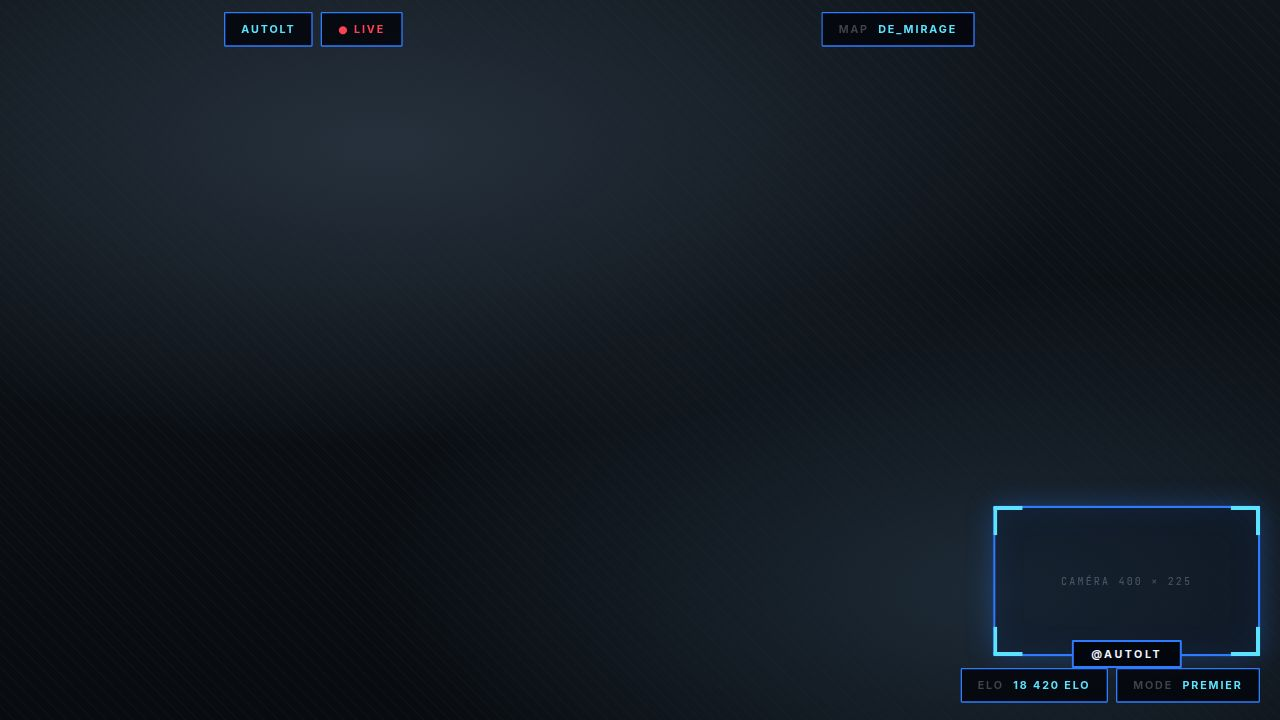
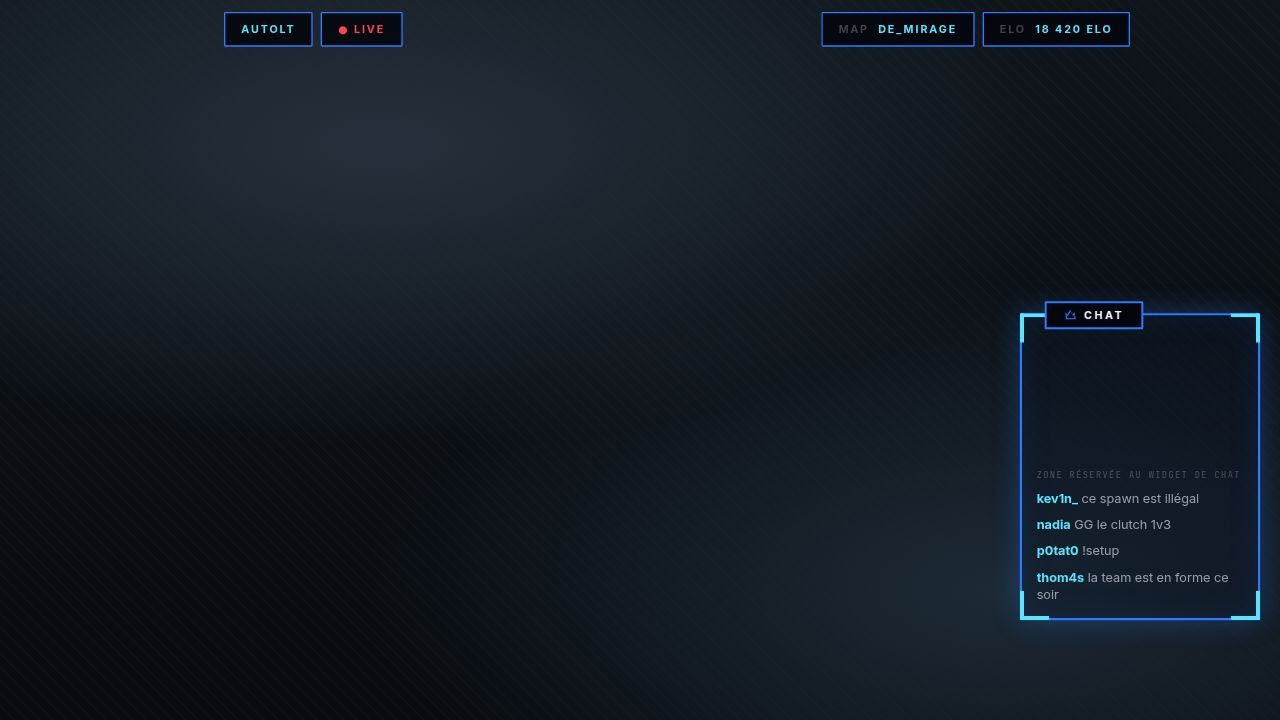
Scène de jeu : le chat prend la place de la caméra
En plein écran, l'encart de droite devient un cadre de chat 360 × 460
placé hors des zones du HUD de CS2 ; l'elo remonte dans le bandeau haut.
En variante encadrée, le rail droit est un seul grand cadre de chat
360 × 768 au lieu du duo caméra + chat.

La caméra reste disponible avec ?rail=cam (ou live.rail dans config.js),
qui rétablit l'ancienne disposition.

Claude-Session: https://claude.ai/code/session_01SUvkqKBtkJQJKFZ1BziB5T

Changed region(s): [[0.75, 0.3972, 1.0, 0.9778], [0.7812, 0.0306, 0.875, 0.0917]]

diff --git a/overlays/js/scenes.js b/overlays/js/scenes.js
@@ -41,6 +41,9 @@
     return g;
   }
 
+  /* 'chat' (défaut) ou 'cam' : ce qu'on met dans l'encart de la scène de jeu */
+  function rail() { return BB.q('rail', CFG.live.rail || 'chat'); }
+
   function liveFull(ctx) {
     var c = CFG.live, root = el('div', 'live-full');
     var tl = el('div', 'lf-top-l anim');
@@ -49,12 +52,20 @@
     var tr = el('div', 'lf-top-r anim');
     add(tr, BB.gchip('map', c.map));
 
-    var cam = el('div', 'lf-cam anim');
-    add(cam, BB.nframe(400, 225, { hint: 'caméra 400 × 225', tab: CFG.handle }));
-    var info = el('div', 'lf-info anim');
-    add(info, BB.gchip('elo', c.rank), BB.gchip('mode', c.mode));
+    add(tr, BB.gchip('elo', c.rank));
 
-    add(root, tl, tr, cam, info);
+    /* Encart latéral : le chat par défaut, la caméra avec ?rail=cam */
+    var side = el('div', 'lf-side anim');
+    if (rail() === 'cam') {
+      add(side, BB.nframe(400, 225, { hint: 'caméra 400 × 225', tab: CFG.handle }));
+    } else {
+      var cf = BB.nframe(360, 460, { hint: false, tab: S.chat.tab || 'Chat',
+        tabIcon: 'crown', tabTopLeft: true });
+      add(cf, chatLines());
+      add(side, cf);
+    }
+
+    add(root, tl, tr, side);
     add(ctx.content, root);
     if (BB.q('guides', '0') === '1') add(ctx.stage, guides());
   }
@@ -75,18 +86,30 @@
       tab: c.game
     }));
 
-    var cam = el('div', 'lf-cam anim');
-    add(cam, BB.nframe(360, 203, { hint: 'caméra 360 × 203', tab: CFG.handle }));
-
-    var chat = el('div', 'lf-chat anim');
-    var cf = BB.nframe(360, 544, { hint: false, tab: 'Chat', tabIcon: 'crown', tabTopLeft: true });
-    add(cf, chatLines());
-    add(chat, cf);
+    /* Rail droit : un seul grand cadre de chat (ou caméra + chat avec ?rail=cam) */
+    var railNodes = [];
+    if (rail() === 'cam') {
+      var cam = el('div', 'lf-cam anim');
+      add(cam, BB.nframe(360, 203, { hint: 'caméra 360 × 203', tab: CFG.handle }));
+      var chat = el('div', 'lf-chat anim');
+      var cf2 = BB.nframe(360, 544, { hint: false, tab: S.chat.tab || 'Chat',
+        tabIcon: 'crown', tabTopLeft: true });
+      add(cf2, chatLines());
+      add(chat, cf2);
+      railNodes = [cam, chat];
+    } else {
+      var full = el('div', 'lf-chat-full anim');
+      var cf = BB.nframe(360, 768, { hint: false, tab: S.chat.tab || 'Chat',
+        tabIcon: 'crown', tabTopLeft: true });
+      add(cf, chatLines());
+      add(full, cf);
+      railNodes = [full];
+    }
 
     var foot = el('div', 'lf-foot anim');
     add(foot, BB.socialRow());
 
-    add(root, head, chips, game, cam, chat, foot);
+    add.apply(null, [root, head, chips, game].concat(railNodes, [foot]));
     add(ctx.content, root);
   }
 

diff --git a/preview/index.html b/preview/index.html
@@ -73,9 +73,9 @@ const DAS = [
 ];
 const SCENES = [
   { n:1, id:'live',  shot:'live',       title:'Scène principale (jeu)',
-    q:'?layout=fullscreen', d:'Overlay transparent posé sur la capture du jeu. Les éléments se placent dans les zones libres du HUD de CS2 — ajoute <code>&guides=1</code> pour les visualiser.' },
+    q:'?layout=fullscreen', d:'Overlay transparent posé sur la capture du jeu : marque, map, elo et cadre de chat se placent dans les zones libres du HUD de CS2 — ajoute <code>&guides=1</code> pour les visualiser.' },
   { n:1, id:'live',  shot:'live-frame', title:'Scène principale (encadrée)',
-    q:'?layout=frame', d:'Variante encadrée : capture du jeu <code>1440 × 810</code> en <code>x 40 / y 140</code>, rail caméra + chat à droite.' },
+    q:'?layout=frame', d:'Variante encadrée : capture du jeu <code>1440 × 810</code> en <code>x 40 / y 140</code>, grand cadre de chat dans le rail de droite. <code>?rail=cam</code> pour la caméra à la place.' },
   { n:2, id:'pause', shot:'pause', title:'Scène BRB (pause)', q:'', d:'Écran de pause plein écran.' },
   { n:3, id:'starting', shot:'starting', title:'Scène starting', q:'',
     d:'Écran de lancement avec minuterie. Durée : <code>?t=600</code> (secondes).' },

diff --git a/overlays/css/scenes.css b/overlays/css/scenes.css
@@ -27,14 +27,14 @@
 .live-frame .lf-game{position:absolute;left:40px;top:140px;}
 .live-frame .lf-cam{position:absolute;left:1520px;top:140px;}
 .live-frame .lf-chat{position:absolute;left:1520px;top:406px;}
+.live-frame .lf-chat-full{position:absolute;left:1520px;top:140px;}
 .live-frame .lf-foot{position:absolute;left:0;right:0;bottom:36px;display:flex;
   align-items:center;justify-content:center;gap:56px;}
 
 /* Variante plein écran : uniquement les zones libres du HUD de CS2 */
 .live-full .lf-top-l{position:absolute;left:336px;top:18px;display:flex;gap:12px;}
 .live-full .lf-top-r{position:absolute;left:1232px;top:18px;display:flex;gap:12px;}
-.live-full .lf-cam{position:absolute;right:30px;bottom:96px;}
-.live-full .lf-info{position:absolute;right:30px;bottom:26px;display:flex;gap:12px;}
+.live-full .lf-side{position:absolute;right:30px;bottom:150px;}
 .live-full .lf-mark{position:absolute;left:36px;bottom:26px;opacity:.9;}
 
 /* Zones occupées par le HUD de CS2 (?guides=1) */

diff --git a/overlays/js/config.js b/overlays/js/config.js
@@ -65,8 +65,11 @@ window.BB_CONFIG = {
     map: 'de_mirage',
     rank: '18 420 elo',
     /* 'fullscreen' = jeu en plein écran, overlay transparent dans les coins
-       'frame'      = jeu encadré + rail droit (caméra, chat, réseaux)      */
-    layout: 'fullscreen'
+       'frame'      = jeu encadré + rail droit                              */
+    layout: 'fullscreen',
+    /* Ce qu'on affiche dans l'encart de la scène de jeu :
+       'chat' = cadre de chat (défaut), 'cam' = cadre caméra               */
+    rail: 'chat'
   },
 
   /* --- Bandeau défilant (optionnel, non utilisé par défaut) -------------- */

diff --git a/docs/OBS.md b/docs/OBS.md
@@ -57,12 +57,16 @@ widget de chat — voir les tailles exactes plus bas.
 | Source           | Taille       | Position        |
 |------------------|--------------|-----------------|
 | Capture du jeu   | 1440 × 810   | x **40** / y **140** |
-| Caméra           | 360 × 203    | x **1520** / y **140** |
-| Widget de chat   | 360 × 544    | x **1520** / y **406** |
+| Widget de chat   | 360 × 768    | x **1520** / y **140** |
 
 **Scène de jeu, variante plein écran** (`live.html`) : le jeu occupe
-1920 × 1080, l'overlay se pose dessus. La caméra va dans le cadre en bas à
-droite : **400 × 225**, x **1490** / y **759**.
+1920 × 1080, l'overlay se pose dessus. Le chat va dans le cadre de droite :
+**360 × 460**, x **1530** / y **470**.
+
+> Tu préfères la caméra dans ce cadre ? Ajoute `?rail=cam` : la caméra revient
+> (360 × 203 en x 1520 / y 140 en encadré, 400 × 225 en bas à droite en plein
+> écran) et, en encadré, le chat reprend sa place dessous en 360 × 544
+> (x 1520 / y 406).
 Ajoute `?guides=1` à l'URL pour afficher en rouge les zones occupées par le HUD
 de CS2 (radar, score, killfeed, vie, équipement, munitions) et vérifier que
 rien ne se chevauche — pense à retirer le paramètre ensuite.
@@ -99,5 +103,6 @@ node tools/render-stinger.mjs signature    # une seule
 - **Machine modeste** : ajoute `?fx=low` → plus aucune animation canvas,
   la consommation CPU tombe à presque rien.
 - **Position des alertes** : `alerts.html?pos=right` ou `?pos=top`.
+- **Caméra plutôt que chat** sur la scène de jeu : `live.html?rail=cam`.
 - Les polices sont **embarquées** dans le pack : aucune connexion internet
   n'est nécessaire, et le rendu est identique sur n'importe quelle machine.

diff --git a/README.md b/README.md
@@ -73,6 +73,7 @@ Dans les phrases : `/` devient un séparateur bleu, `*mot*` met le mot en avant.
 | `?t=900` | durée de la minuterie, en secondes |
 | `?fx=low` | coupe les animations canvas (CPU ≈ 0) |
 | `?layout=frame` | scène de jeu encadrée au lieu du plein écran |
+| `?rail=cam` | remet la caméra à la place du chat sur la scène de jeu |
 | `?guides=1` | affiche les zones du HUD de CS2 (scène de jeu) |
 | `?pos=right\|top` | position des alertes / du chat |
 | `?w=…&h=…` | taille du cadre webcam ou chat |
